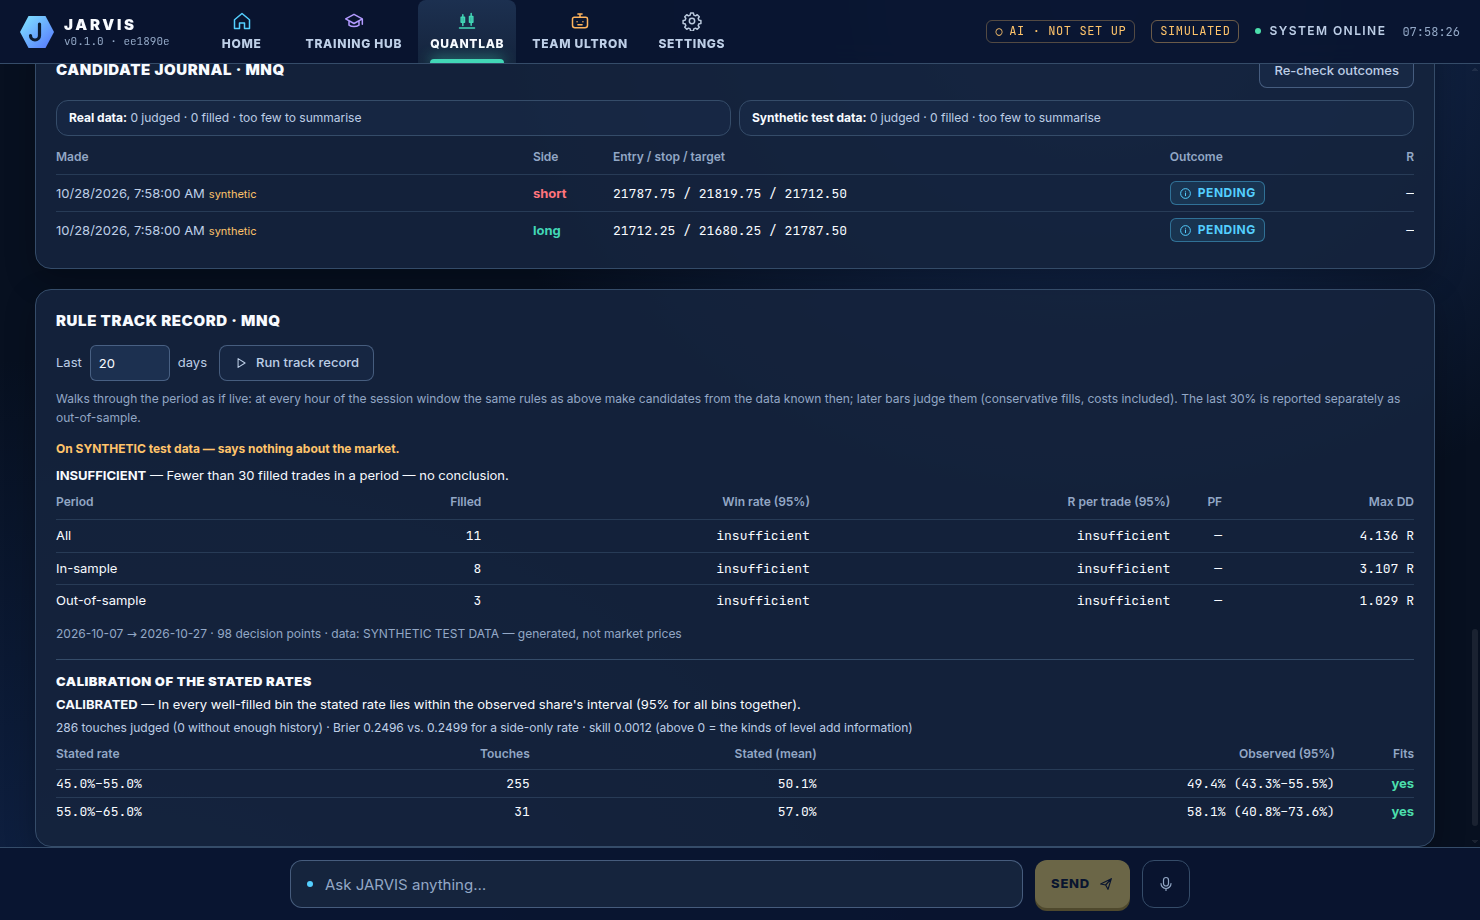
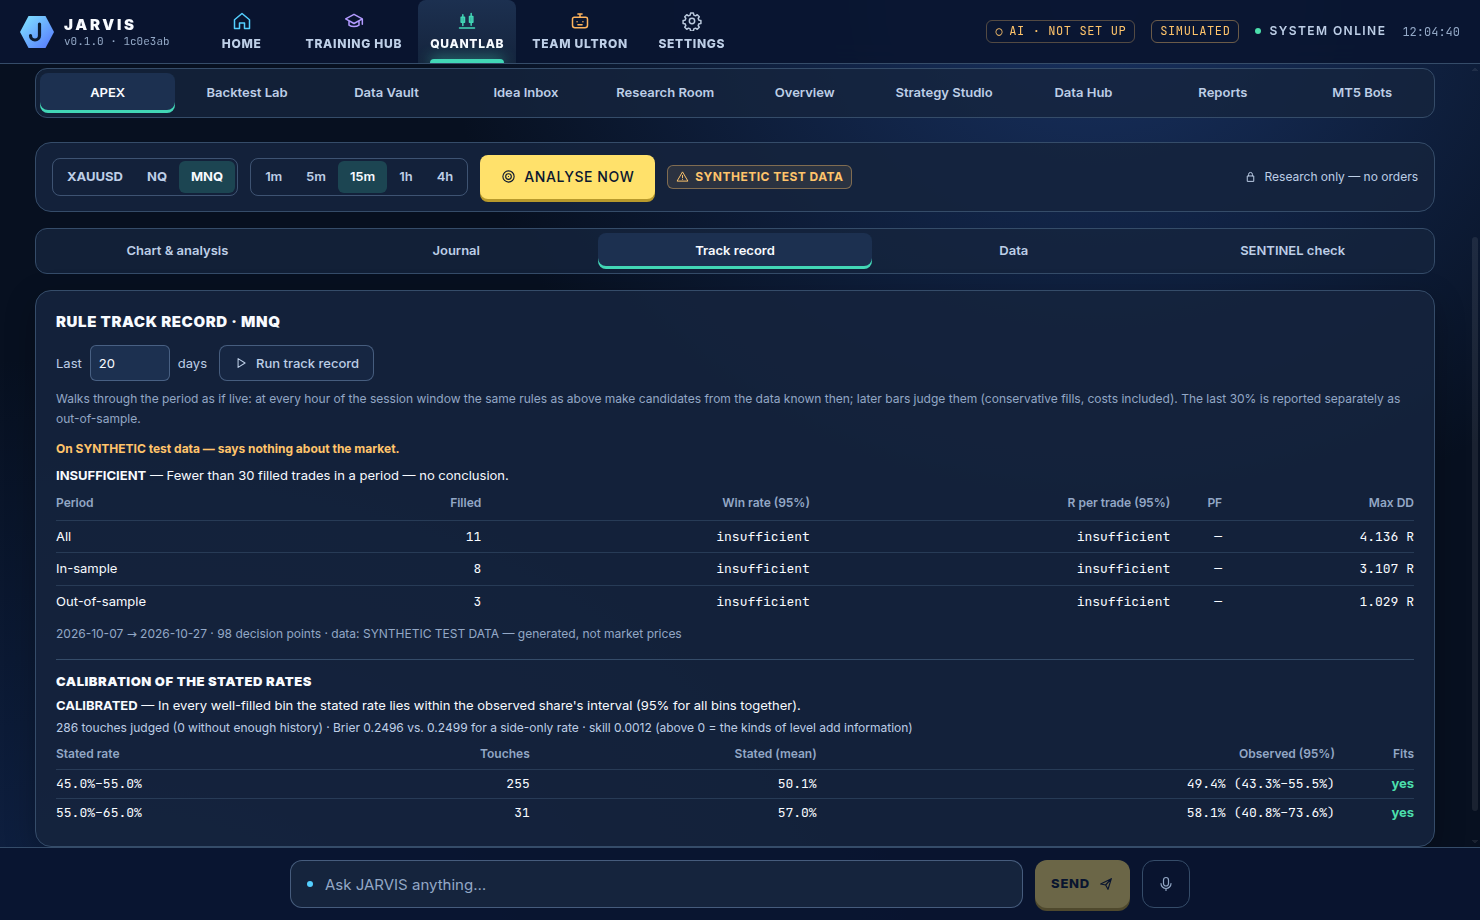
APEX-R: verified run, new screenshots, training status race fixed
- TrainingService._refresh read the latest report and the run history with
  an await between the two assignments, so a status read could show the new
  report next to the old (empty) history — an intermittent failure of
  test_the_service_trains_on_new_data_and_keeps_the_model. Both are now
  read first and set together.
- docs/screenshots/apex-*.png from the E2E run (SYNTHETIC test data):
  chart 15 min and 1 hour, JARVIS reading, data status, track record.
- APEX_STATUS: check.sh (pytest 668, vitest 54) and E2E 35/35.

Claude-Session: https://claude.ai/code/session_0149C5qM6i6jjZW9fcdy9Ujw

diff --git a/jarvis/backend/jarvis/training/service.py b/jarvis/backend/jarvis/training/service.py
@@ -181,8 +181,11 @@ class TrainingService:
         )
 
     async def _refresh(self) -> None:
-        self._report = await self._store.latest_report()
-        self._history = await self._store.runs(limit=30)
+        # Both are read first and set together: a status read between the two awaits would
+        # otherwise show the new report next to the old history.
+        report = await self._store.latest_report()
+        history = await self._store.runs(limit=30)
+        self._report, self._history = report, history
 
     async def _set(
         self,

diff --git a/jarvis/docs/apex/APEX_STATUS.md b/jarvis/docs/apex/APEX_STATUS.md
@@ -41,14 +41,26 @@ Branch `claude/jarvis-foundation-mxnsz4`. Rollback point before APEX: `f6419d0`.
 
 ## Last verified run
 
-`./scripts/check.sh` green — pytest **655** (625 before APEX + 30 in `test_apex.py`), vitest 47,
-ruff, mypy ×3, typecheck. E2E **35/35** incl. the APEX step (XAUUSD + MNQ analysed, candidates
-journaled, SENTINEL re-check 3/3, SENTINEL in the HQ, track record verdict, no order route).
-Screenshots: `docs/screenshots/apex-*.png` (all on SYNTHETIC test data).
+APEX-R (2026-10-28): `./scripts/check.sh` green — pytest **668** (incl. `test_apex.py` 30,
+`test_apex_data_repair.py` 10, `test_apex_pipeline.py` 3), vitest **54** (incl.
+`chartView.test.ts` 7), ruff, mypy ×3, typecheck. E2E **35/35** incl. the rewritten APEX step
+(chart in five timeframes, zoom / reset / crosshair, zones, long/short/no-trade, JARVIS reading
+and the command-bar draft, data status, SENTINEL 3/3, MNQ, journal, track record with
+calibration, no order route). The owner's case was also rebuilt in the real app (local
+provider, cache ending four weeks back, Dukascopy unreachable): `STALE` + `NO_RECENT_DATA`
+instead of "GAPS 100 %", and `UPDATE_FAILED` / `CACHE_BEHIND` / `MISSING_DAYS` with one Repair
+action. Screenshots: `docs/screenshots/apex-*.png` (all on SYNTHETIC test data).
+
+Also fixed on the way: `TrainingService._refresh` set the new report and the run history in
+two steps with an await between them, so a status read could see a report next to an empty
+history (an intermittent `test_training` failure). Both are now read first and set together.
 
 ## Mocked / not verified here
 
 - All market data in tests and E2E is generated (SYNTHETIC). The container's network policy
   blocks Dukascopy and Databento, so **no APEX result on real market data exists yet**.
 - Real runs happen on the owner's Mac with its Dukascopy cache and Data Vault.
-- Not verified: macOS, real Dukascopy refresh, real Databento bars through APEX.
+- Not verified: macOS, a real Dukascopy refresh or repair (the container's network policy
+  refuses `jetta.dukascopy.com`), real Databento bars through APEX. Which silent path froze
+  the owner's cache (empty answers, 404s or a failed update) is shown by APEX → Data on the
+  Mac after the next update.
